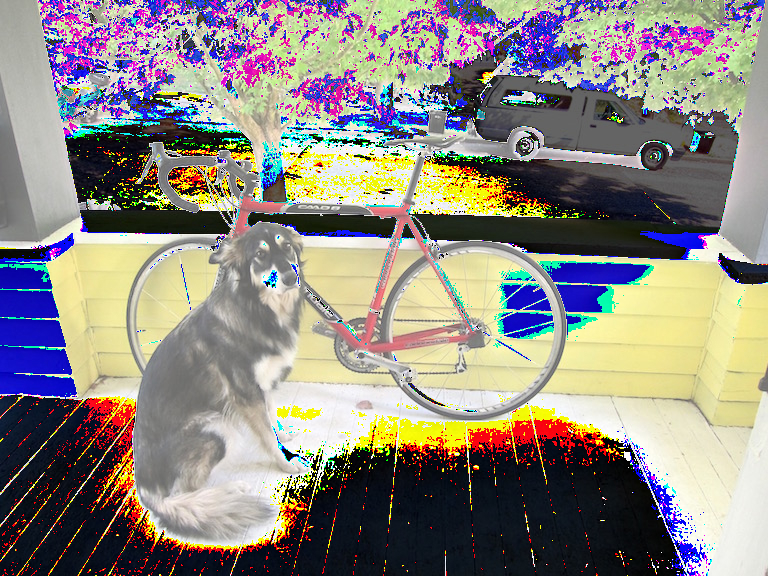
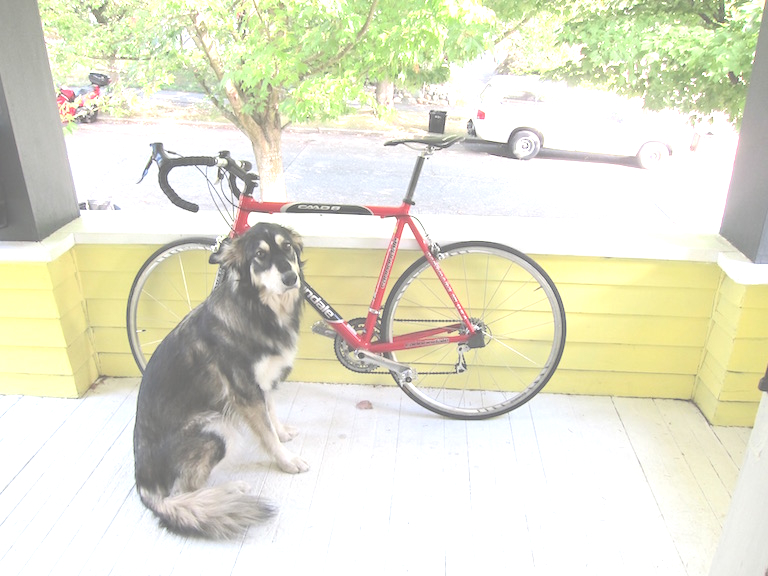
Task 5 done

diff --git a/src/process_image.c b/src/process_image.c
@@ -56,7 +56,13 @@ void shift_image(image im, int c, float v)
 
 void clamp_image(image im)
 {
-    // TODO Fill this in
+    for (int i = 0; i < im.w * im.h * im.c; i++)
+    {
+        if (im.data[i] > 1)
+            im.data[i] = 1;
+        else if (im.data[i] < 0)
+            im.data[i] = 0;
+    }
 }
 
 // These might be handy
